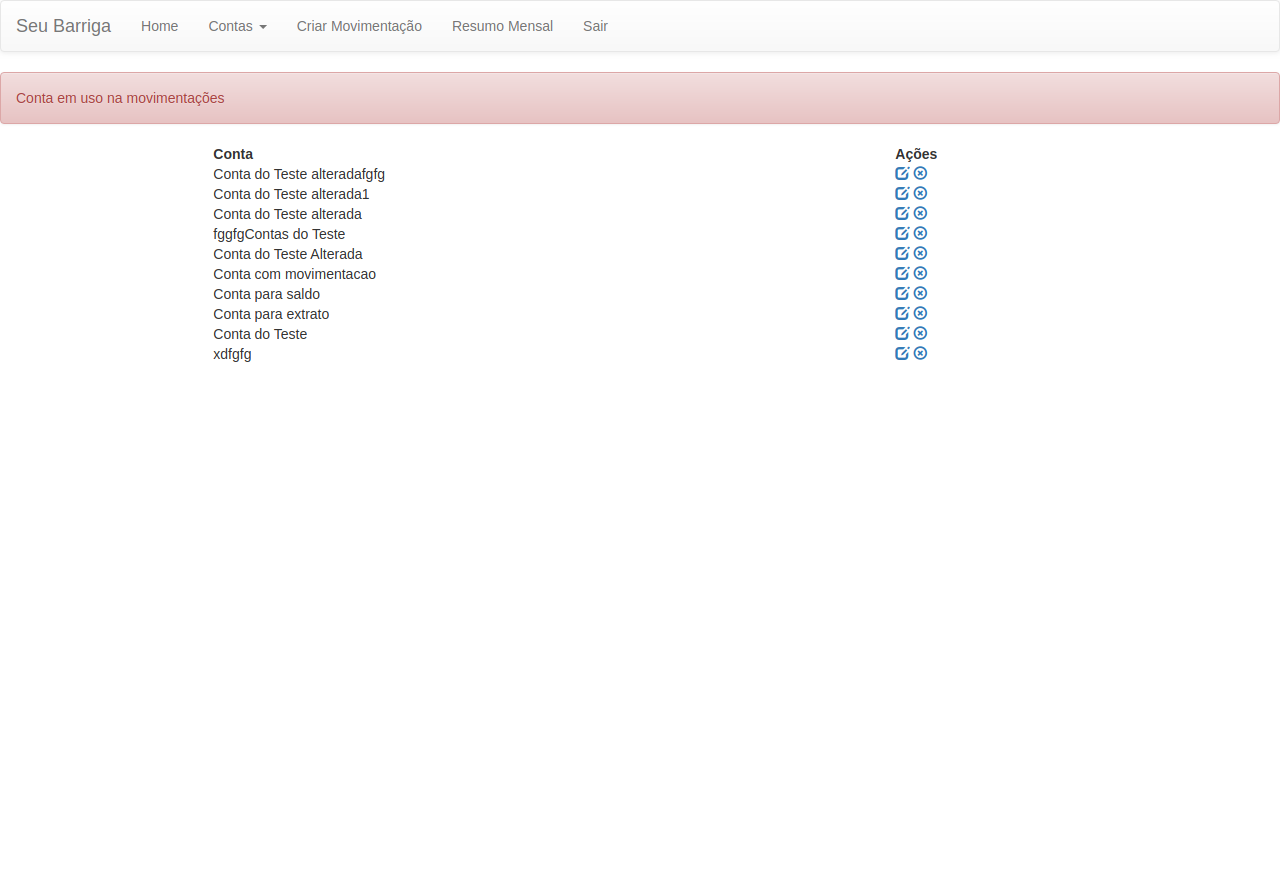
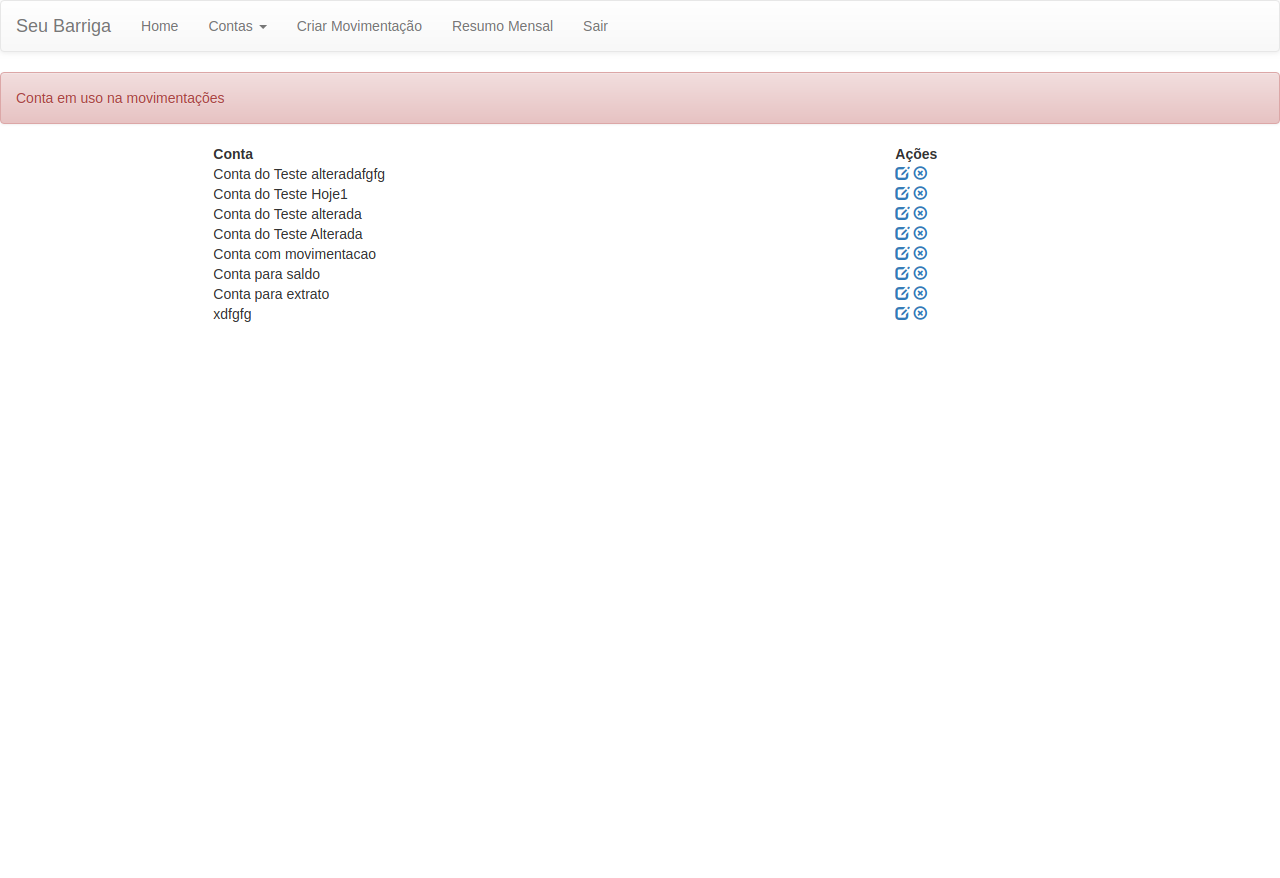
Executando em sequencia

Changed region(s): [[0.1562, 0.2153, 0.2812, 0.4305], [0.6875, 0.369, 0.7188, 0.4305]]

diff --git a/src/main/java/tests/MovimentacaoTest.java b/src/main/java/tests/MovimentacaoTest.java
@@ -3,7 +3,9 @@ package tests;
 import core.BasePage;
 import core.BaseTest;
 import org.junit.Assert;
+import org.junit.FixMethodOrder;
 import org.junit.Test;
+import org.junit.runners.MethodSorters;
 import pages.MenuPage;
 import pages.MovimentacaoPage;
 import utils.DataUtils;
@@ -11,13 +13,14 @@ import java.util.Arrays;
 import java.util.Date;
 import java.util.List;
 
+@FixMethodOrder(MethodSorters.NAME_ASCENDING)
 public class MovimentacaoTest extends BaseTest {
 
     private MenuPage menuPage = new MenuPage();
     private MovimentacaoPage movimentacaoPage = new MovimentacaoPage();
 
     @Test
-    public void testInserirMovimentacao(){
+    public void test1_InserirMovimentacao(){
         menuPage.acessarTelaInserirMovimentacao();
 
         movimentacaoPage.setDataMovimentacao(DataUtils.obertDataFormatada(new Date()));
@@ -25,7 +28,7 @@ public class MovimentacaoTest extends BaseTest {
         movimentacaoPage.setDescricao("Movimentação do Teste");
         movimentacaoPage.setInteressado("Interessado Qualquer");
         movimentacaoPage.setValor("500");
-        movimentacaoPage.setConta("Conta do Teste Alterada");
+        movimentacaoPage.setConta("Conta do Teste Hoje1");
         movimentacaoPage.setStatusPago();
         movimentacaoPage.salvar();
 
@@ -33,7 +36,7 @@ public class MovimentacaoTest extends BaseTest {
     }
 
     @Test
-    public void testCamposObrigatorios(){
+    public void test2_CamposObrigatorios(){
         menuPage.acessarTelaInserirMovimentacao();
 
         movimentacaoPage.salvar();
@@ -47,7 +50,7 @@ public class MovimentacaoTest extends BaseTest {
     }
 
     @Test
-    public void inserirMovimentacaoFutura(){
+    public void inserir3_MovimentacaoFutura(){
         menuPage.acessarTelaInserirMovimentacao();
 
         Date dataFutura = DataUtils.obterDataComDiferencaDias(5);
@@ -57,7 +60,7 @@ public class MovimentacaoTest extends BaseTest {
         movimentacaoPage.setDescricao("Movimentação do Teste");
         movimentacaoPage.setInteressado("Interessado Qualquer");
         movimentacaoPage.setValor("500");
-        movimentacaoPage.setConta("Conta do Teste Alterada");
+        movimentacaoPage.setConta("Conta do Teste Hoje1");
         movimentacaoPage.setStatusPago();
         movimentacaoPage.salvar();
 

diff --git a/src/main/java/tests/ContaTest.java b/src/main/java/tests/ContaTest.java
@@ -2,53 +2,46 @@ package tests;
 
 import core.BaseTest;
 import org.junit.Assert;
+import org.junit.FixMethodOrder;
 import org.junit.Test;
+import org.junit.runners.MethodSorters;
 import pages.ContasPage;
 import pages.MenuPage;
 
+@FixMethodOrder(MethodSorters.NAME_ASCENDING)
 public class ContaTest extends BaseTest {
 
     MenuPage menuPage = new MenuPage();
     ContasPage contasPage = new ContasPage();
 
     @Test
-    public void test(){
+    public void test1_InserirConta(){
         menuPage.acessarTelaInserirConta();
 
-        contasPage.setNome("Conta do Teste");
+        contasPage.setNome("Conta do Teste Hoje");
         contasPage.salvar();
 
         Assert.assertEquals("Conta adicionada com sucesso!", contasPage.obterMensagemSucesso());
     }
 
     @Test
-    public void testAlterarConta(){
+    public void test2_AlterarConta(){
         menuPage.acessarTelaListarConta();
 
-        contasPage.clicarAlterarConta("Conta do Teste");
-        contasPage.setNome("Conta do Teste Alterada");
+        contasPage.clicarAlterarConta("Conta do Teste Hoje");
+        contasPage.setNome("Conta do Teste Hoje1");
         contasPage.salvar();
 
         Assert.assertEquals("Conta alterada com sucesso!", contasPage.obterMensagemSucesso());
     }
 
     @Test
-    public void testInserirContaMesmoNome(){
+    public void test3_InserirContaMesmoNome(){
         menuPage.acessarTelaInserirConta();
 
-        contasPage.setNome("Conta do Teste Alterada");
+        contasPage.setNome("Conta do Teste Hoje1");
         contasPage.salvar();
 
         Assert.assertEquals("Já existe uma conta com esse nome!", contasPage.obterMensagemSemSucesso());
     }
-
-    @Test
-    public void testExcluirContaComMovimentacao(){
-        menuPage.acessarTelaListarConta();
-
-        contasPage.clicarExcluirConta("Conta do Teste Alterada");
-
-        Assert.assertEquals("Conta em uso na movimentações", contasPage.obterMensagemSemSucesso());
-    }
-
 }

diff --git a/src/main/java/tests/ResumoTest.java b/src/main/java/tests/ResumoTest.java
@@ -3,17 +3,20 @@ package tests;
 import core.BaseTest;
 import core.DriverFactory;
 import org.junit.Assert;
+import org.junit.FixMethodOrder;
 import org.junit.Test;
+import org.junit.runners.MethodSorters;
 import pages.MenuPage;
 import pages.ResumoPage;
 
+@FixMethodOrder(MethodSorters.NAME_ASCENDING)
 public class ResumoTest extends BaseTest {
 
     private MenuPage menuPage = new MenuPage();
     private ResumoPage resumoPage = new ResumoPage();
 
     @Test
-    public void testExcluirMovimentacao(){
+    public void test1_ExcluirMovimentacao(){
         menuPage.acessarTelaResumo();
 
         resumoPage.excluirMovimentacao();
@@ -22,7 +25,7 @@ public class ResumoTest extends BaseTest {
     }
 
     @Test
-    public void testResumoMensal(){
+    public void test2_ResumoMensal(){
         menuPage.acessarTelaResumo();
 
         Assert.assertEquals("Seu Barriga - Extrato", DriverFactory.getDriver().getTitle());

diff --git a/src/main/java/tests/RemoverMovimentacaoContaTest.java b/src/main/java/tests/RemoverMovimentacaoContaTest.java
@@ -1,0 +1,22 @@
+package tests;
+
+import core.BaseTest;
+import org.junit.Assert;
+import org.junit.Test;
+import pages.ContasPage;
+import pages.MenuPage;
+
+public class RemoverMovimentacaoContaTest extends BaseTest {
+
+    MenuPage menuPage = new MenuPage();
+    ContasPage contasPage = new ContasPage();
+
+    @Test
+    public void testExcluirContaComMovimentacao(){
+        menuPage.acessarTelaListarConta();
+
+        contasPage.clicarExcluirConta("Conta do Teste Hoje1");
+
+        Assert.assertEquals("Conta em uso na movimentações", contasPage.obterMensagemSemSucesso());
+    }
+}

diff --git a/src/main/java/suites/SuiteGeral.java b/src/main/java/suites/SuiteGeral.java
@@ -1,0 +1,18 @@
+package suites;
+
+import org.junit.runner.RunWith;
+import org.junit.runners.Suite;
+import tests.ContaTest;
+import tests.MovimentacaoTest;
+import tests.RemoverMovimentacaoContaTest;
+import tests.ResumoTest;
+
+@RunWith(Suite.class)
+@Suite.SuiteClasses({
+        ContaTest.class,
+        MovimentacaoTest.class,
+        RemoverMovimentacaoContaTest.class,
+        ResumoTest.class
+})
+public class SuiteGeral {
+}

diff --git a/src/main/java/tests/SaldoTest.java b/src/main/java/tests/SaldoTest.java
@@ -10,6 +10,6 @@ public class SaldoTest extends BaseTest {
 
     @Test
     public void testSaldoConta(){
-        Assert.assertEquals("-1500.00", homePage.obterSaldoConta("Conta com movimentacao"));
+        Assert.assertEquals("500.00", homePage.obterSaldoConta("Conta do Teste Hoje1"));
     }
 }

diff --git a/src/main/java/core/DriverFactory.java b/src/main/java/core/DriverFactory.java
@@ -18,7 +18,7 @@ public class DriverFactory {
     }
 
     public static void killDriver(){
-        if(driver != null){
+        if(driver != null) {
             driver.quit();
             driver = null;
         }

diff --git a/src/main/java/core/Propriedades.java b/src/main/java/core/Propriedades.java
@@ -2,5 +2,5 @@ package core;
 
 public class Propriedades {
 
-    public static boolean FECHAR_BROWSER = false;
+    public static boolean FECHAR_BROWSER = true;
 }
